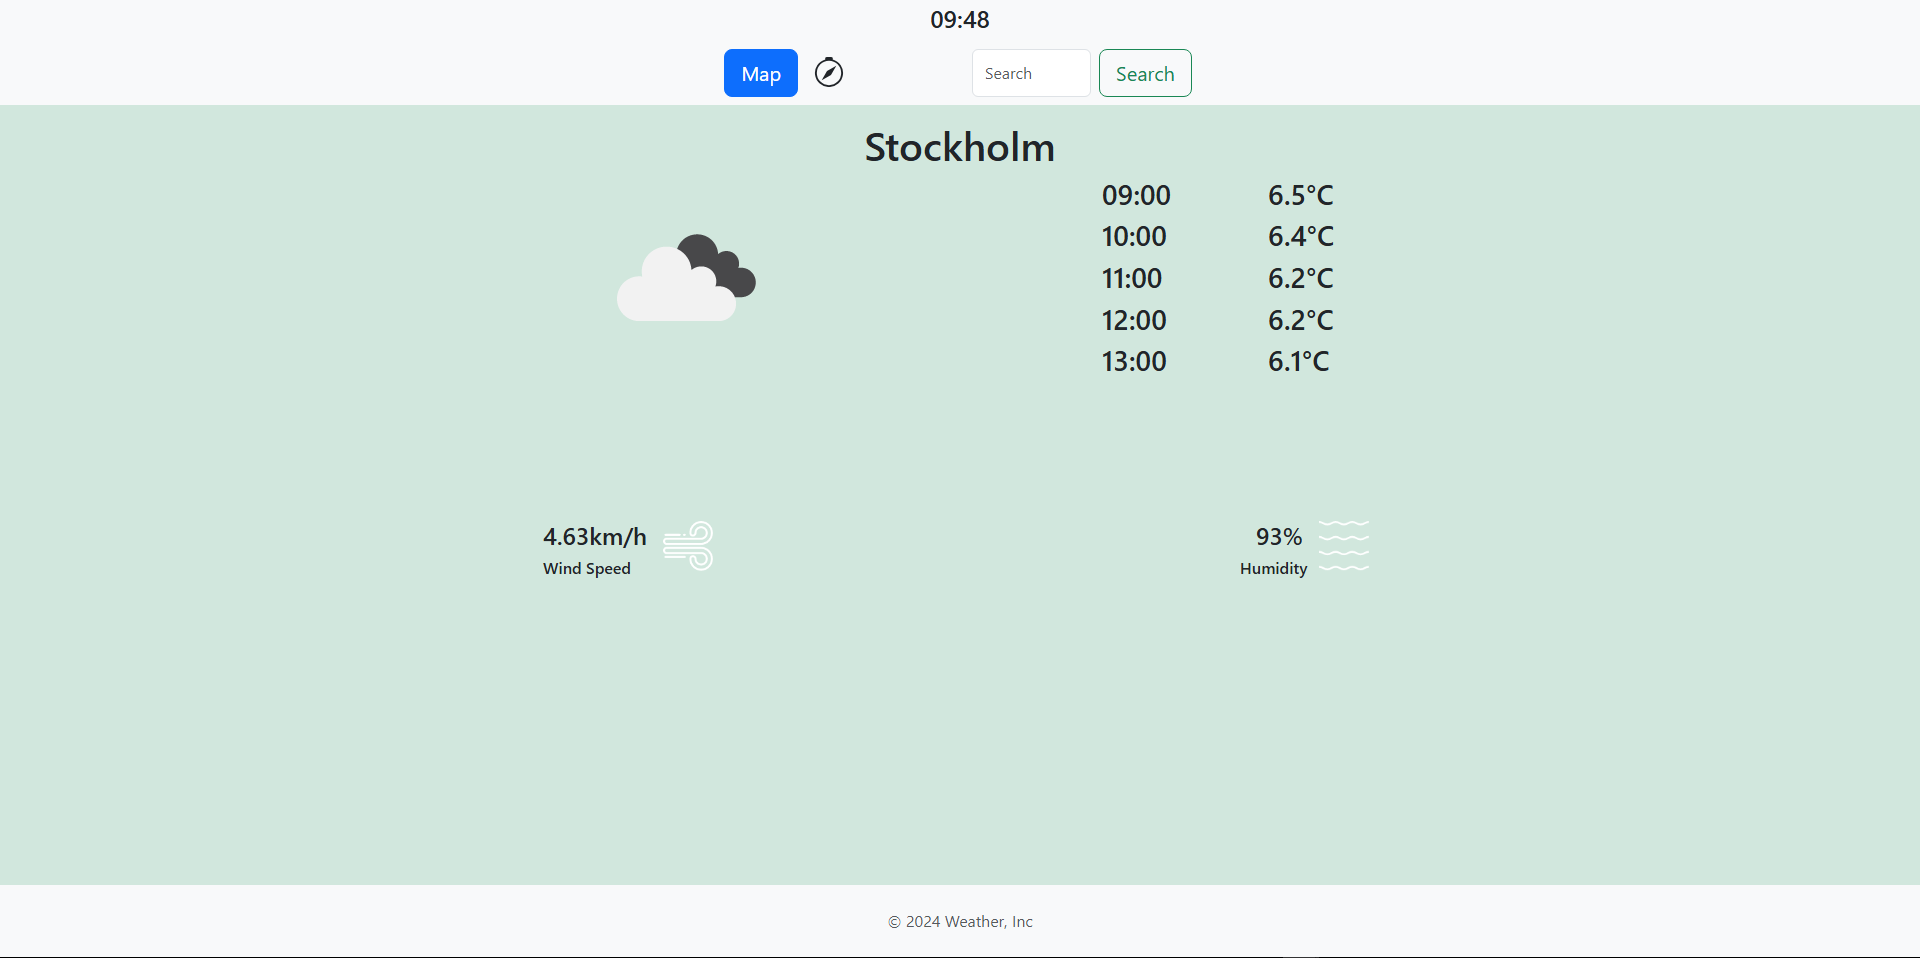
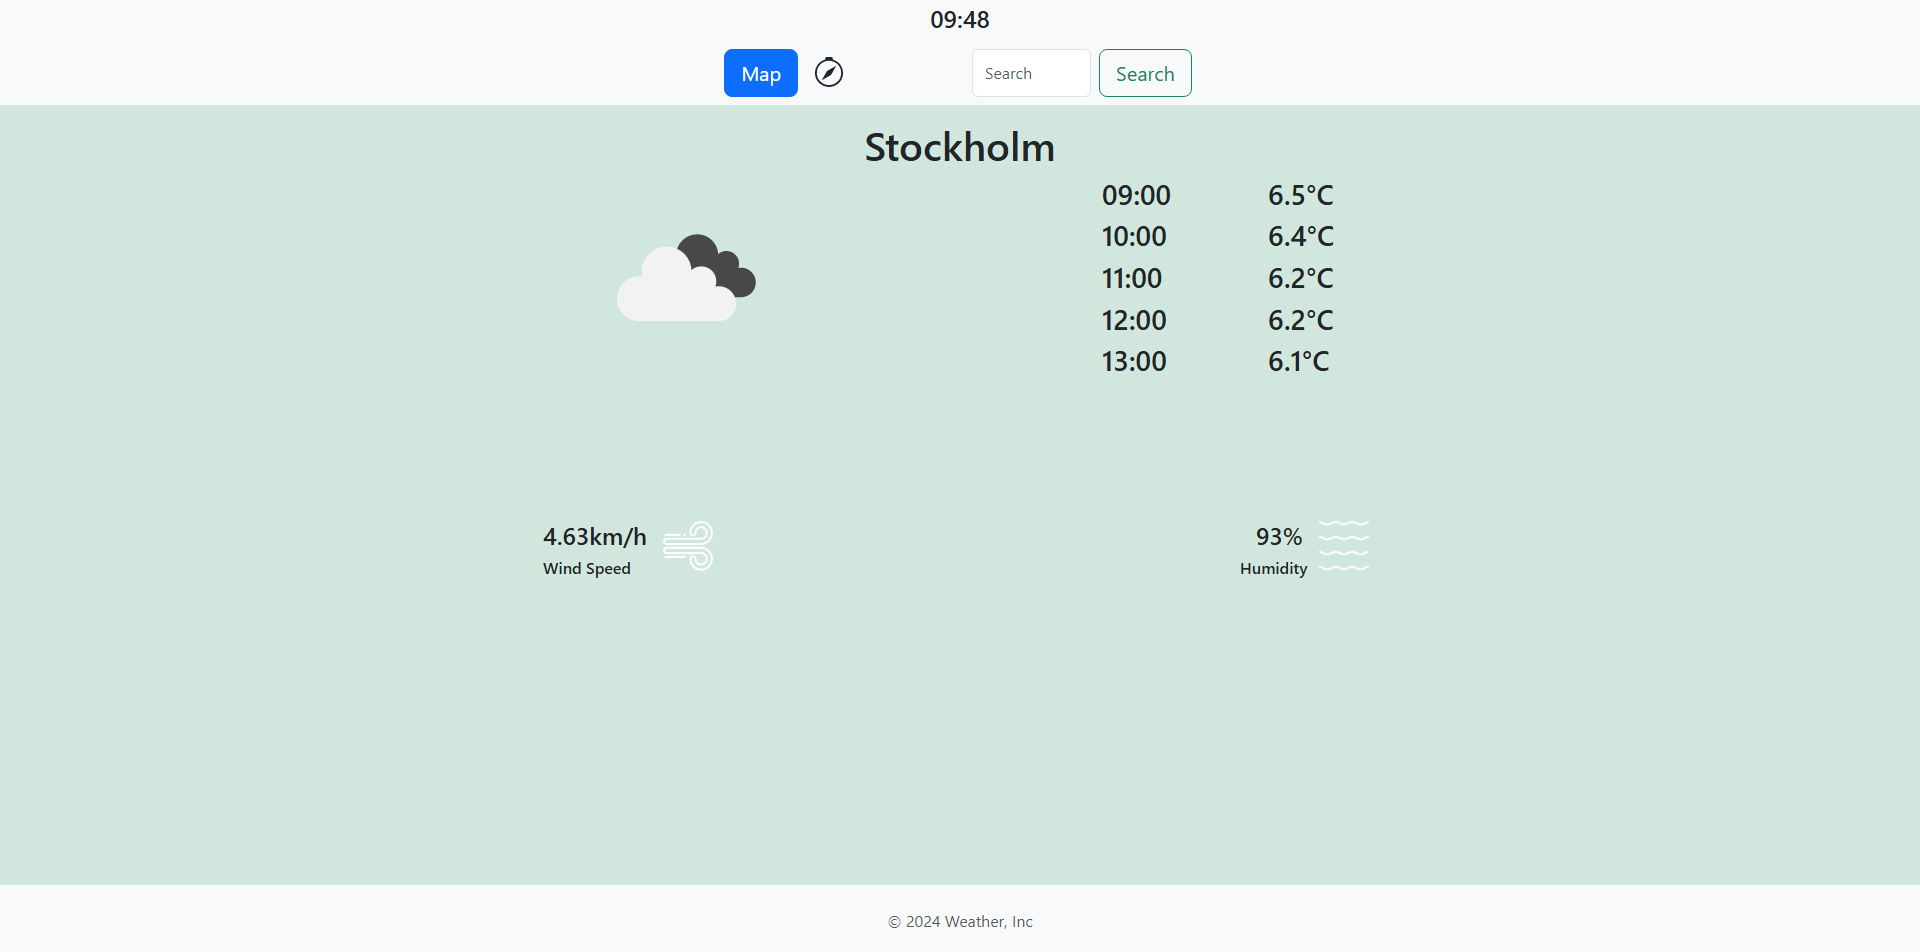
Added a new project
I've added a new project (Sudoku) and some new buttons for filtering techniques

diff --git a/src/body/Projects.jsx b/src/body/Projects.jsx
@@ -10,6 +10,7 @@ import todoapp from "../assets/Mockups/todoapp.png"
 import tournamentwebbapp from "../assets/Mockups/tournamentwebbapp.png"
 import Cuppsatts from "../assets/Mockups/Omslag examensarbete.png"
 import artistino from "../assets/Mockups/artistino.jpg"
+import sudoku from "../assets/Mockups/sudoku.png"
 
 //Komponent som visar projekt
 function Projects({ observer }) {
@@ -17,6 +18,10 @@ function Projects({ observer }) {
     const techniques = [
         {name : "Web Development"},
         {name : "App Development"},
+        {name : "JavaScript"},
+        {name : "React.js"},
+        {name : "Tailwind css"},
+        {name : "Bootstrap"},
         {name : "Api"},
         {name : "Java"},
         {name : "Python"},
@@ -33,7 +38,8 @@ function Projects({ observer }) {
         {name : "To-Do app", link : "https://github.com/Dackefrsik/To-do-app", img : todoapp, techniques : ["App Development", "TypeScript", "React-native"]},
         {name : "Tournament webbapp", link : "https://github.com/Dackefrsik/Tournament-webbapp", img : tournamentwebbapp, techniques : ["Web Development", "HTML & CSS", "JavaScript", "React.js", "Bootstrap"]},
         {name : "Bachelor's thesis", link : "https://www.diva-portal.org/smash/record.jsf?pid=diva2%3A1966488&dswid=9917", img: Cuppsatts, techniques : ["Thesis"]},
-        {name : "Artistino discord bot", link : "https://github.com/Dackefrsik/Artistino-discord-bot", img : artistino, techniques : ["Python", "Api"]}
+        {name : "Artistino discord bot", link : "https://github.com/Dackefrsik/Artistino-discord-bot", img : artistino, techniques : ["Python", "Api"]},
+        {name: "Sudoku", link : "https://github.com/Dackefrsik/Suduko", img : sudoku, techniques : ["Web Development", "HTML & CSS", "JavaScript", "React.js", "Tailwind css"]}
     ]
 
     const [filteredProjects, setFilteredProjects] = useState(Projects);

diff --git a/src/body/LogoLoop.jsx b/src/body/LogoLoop.jsx
@@ -22,6 +22,7 @@ const techLogos = [
     { node: <img src = "https://img.shields.io/badge/REST%20API-009688?style=for-the-badge&logo=api&logoColor=white"/>, title : "Rest API"},
     { node: <img src = "https://img.shields.io/badge/PlantUML-0D597F?style=for-the-badge&logo=uml&logoColor=white"/>, title : "PlantUml"},
     { node: <img src = "https://img.shields.io/badge/TypeScript-3178C6?style=for-the-badge&logo=typescript&logoColor=white"/> , title : "TypeScript"},
+    { node: <img src = "https://img.shields.io/badge/Tailwind_CSS-06B6D4?style=for-the-badge&logo=tailwind-css&logoColor=white"/>, title: "Tailwind CSS"}
 ];
 
 export function App() {

diff --git a/src/body/Teknikals.jsx b/src/body/Teknikals.jsx
@@ -26,6 +26,7 @@ function Teknikals({ observer }) {
     {src : "https://img.shields.io/badge/REST%20API-009688?style=for-the-badge&logo=api&logoColor=white", alt : "Rest API"},
     {src : "https://img.shields.io/badge/PlantUML-0D597F?style=for-the-badge&logo=uml&logoColor=white", alt : "PlantUml"},
     {src : "https://img.shields.io/badge/TypeScript-3178C6?style=for-the-badge&logo=typescript&logoColor=white", alt : "TypeScript"},
+    {src: "https://img.shields.io/badge/Tailwind_CSS-06B6D4?style=for-the-badge&logo=tailwind-css&logoColor=white", alt: "Tailwind CSS"}
   ]
 
 
